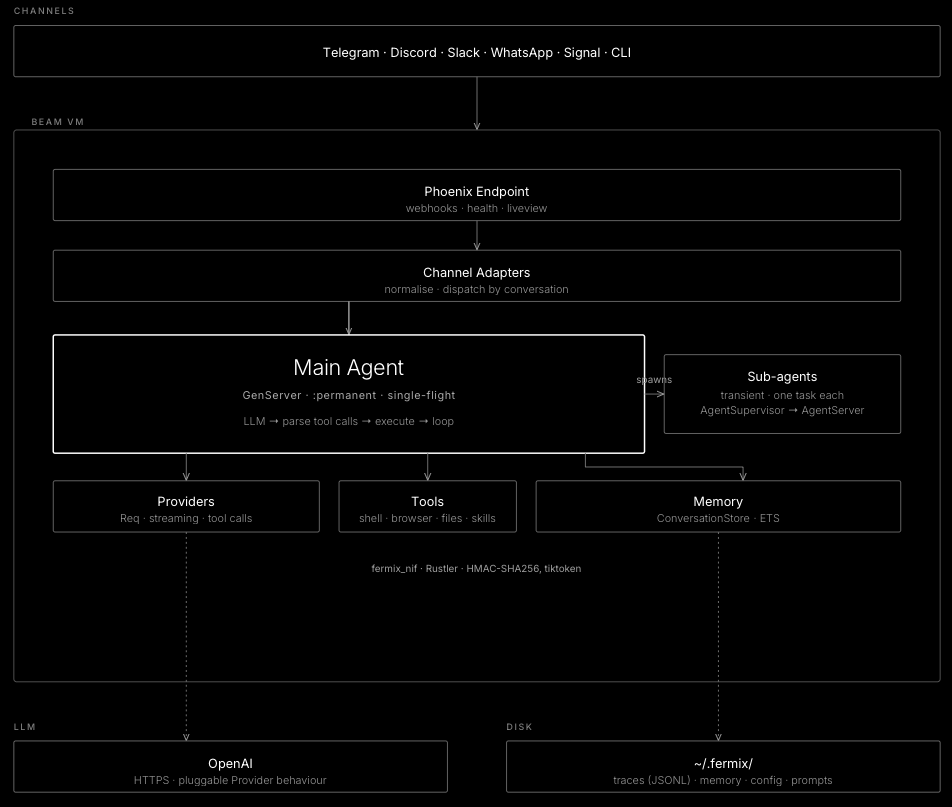
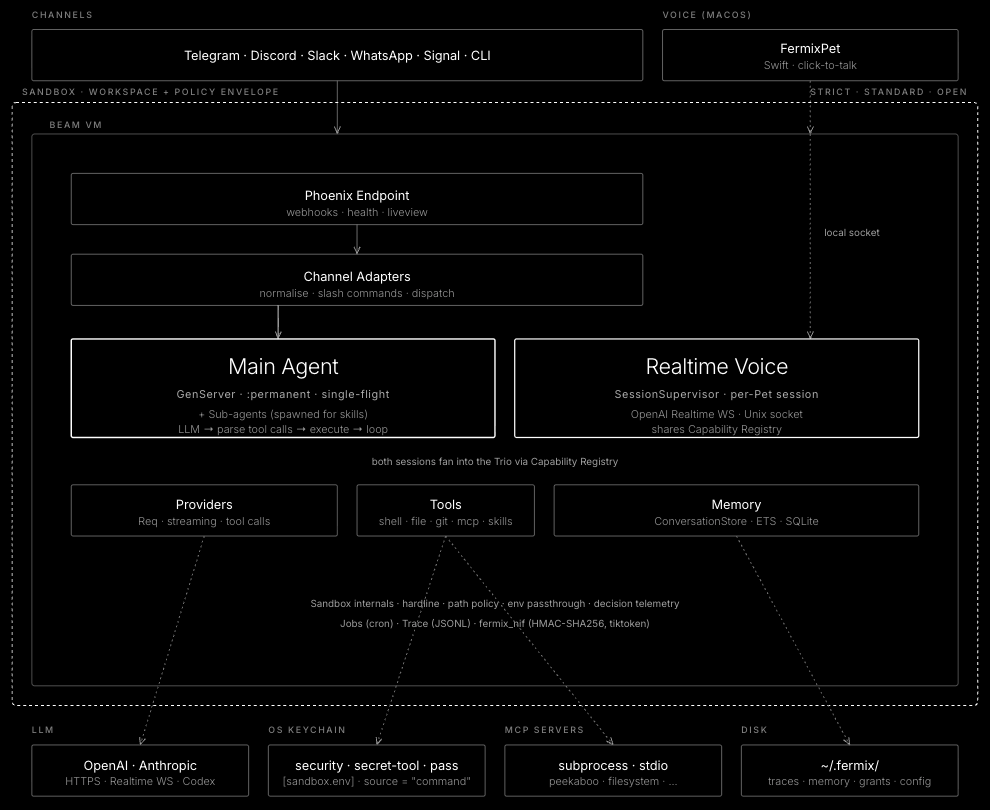
docs(architecture): refresh diagram for M5 Sandbox envelope, Realtime, FermixPet
Significant restructuring of the system architecture diagram in
docs/ARCHITECTURE.html to reflect the current runtime:

- Two parallel top-input lanes: Channels (Telegram/Discord/Slack/
  WhatsApp/Signal/CLI on the left) and FermixPet voice (right).
  FermixPet's local Unix socket bypasses Phoenix entirely, drawn
  as a dashed line down the right side of the VM that lands on
  Realtime's top edge instead of going through Phoenix and
  Channel Adapters.
- Phoenix Endpoint and Channel Adapters shrunk to left-lane only
  (x=120-700) since FermixPet doesn't go through them.
- Main Agent and Realtime Voice are siblings at the same y-level
  (y=348-448), both white-stroked hero boxes. Sub-agents folded
  into Main Agent's body text as a sub-line — they're transient
  spawned workers, not a separate session like Realtime.
- Sandbox rendered as the outermost dashed envelope (x=60-1040,
  y=108-720) wrapping the entire BEAM VM. Labelled "workspace +
  policy envelope" with the three modes (strict/standard/open)
  in the top-right corner. Replaces the prior tight dashed wrap
  around Tools, which implied middleware-pipeline thinking.
- Outbound row reorganised to four blocks (LLM · OS Keychain ·
  MCP Servers · Disk) with connector slants that don't cross.
- New centerline label between Sessions and Trio: "both sessions
  fan into the Trio via Capability Registry."
- Sandbox internals captured in a quiet strip line: "hardline ·
[…]

diff --git a/docs/ARCHITECTURE.html b/docs/ARCHITECTURE.html
@@ -113,14 +113,40 @@
       </defs>
 
       <!-- ============================================================
-           INPUT — Channels only at the top (full width above the VM)
+           INPUTS — two parallel ingress lanes above the VM.
+           Channels (text) come in via Phoenix HTTP webhooks.
+           FermixPet (voice) connects to a local Unix-domain socket and
+           bypasses Phoenix entirely.
            ============================================================ -->
       <text x="80" y="22" class="label-eyebrow">Channels</text>
-      <rect x="80" y="34" width="940" height="52" rx="2"
+      <rect x="80" y="34" width="620" height="52" rx="2"
             fill="none" stroke="#6e6e6e" stroke-width="1"/>
-      <text x="550" y="65" class="label-row" text-anchor="middle">Telegram   ·   Discord   ·   Slack   ·   WhatsApp   ·   Signal   ·   CLI</text>
+      <text x="390" y="65" class="label-row" text-anchor="middle">Telegram  ·  Discord  ·  Slack  ·  WhatsApp  ·  Signal  ·  CLI</text>
 
-      <line x1="550" y1="86" x2="550" y2="140" stroke="#7a7a7a" stroke-width="1" marker-end="url(#tip)"/>
+      <text x="720" y="22" class="label-eyebrow">Voice (macOS)</text>
+      <rect x="720" y="34" width="300" height="52" rx="2"
+            fill="none" stroke="#6e6e6e" stroke-width="1"/>
+      <text x="870" y="58" class="label-row" text-anchor="middle">FermixPet</text>
+      <text x="870" y="74" class="label-sub" text-anchor="middle">Swift  ·  click-to-talk</text>
+
+      <line x1="390" y1="86" x2="390" y2="140" stroke="#7a7a7a" stroke-width="1" marker-end="url(#tip)"/>
+      <line x1="870" y1="86" x2="870" y2="140" stroke="#7a7a7a" stroke-width="1" stroke-dasharray="2,3" marker-end="url(#tip)"/>
+
+      <!-- ============================================================
+           SANDBOX — operator's policy envelope wrapping the BEAM VM.
+           Modes (strict/standard/open), allowed_roots, blocked_roots,
+           env passthrough, and command profile govern what the agent
+           can DO on this machine. Drawn outside the BEAM frame to
+           reflect that Sandbox config is the framing context for the
+           whole local runtime — not OS isolation, that lands in M10.
+           Runtime enforcement (Sandbox.enforce/3) fires inside tool
+           execute paths; LLM HTTPS calls and Memory writes intentionally
+           bypass it (§3.4 control-surface carve-out).
+           ============================================================ -->
+      <rect x="60" y="108" width="980" height="612" rx="4"
+            fill="none" stroke="#ffffff" stroke-width="1" stroke-dasharray="3,3"/>
+      <text x="70" y="100" class="label-eyebrow">Sandbox  ·  workspace + policy envelope</text>
+      <text x="1030" y="100" class="label-eyebrow" text-anchor="end">strict  ·  standard  ·  open</text>
 
       <!-- ============================================================
            BEAM VM — frame + tiny corner label
@@ -129,88 +155,113 @@
             fill="none" stroke="#5a5a5a" stroke-width="1"/>
       <text x="98" y="134" class="label-eyebrow">BEAM VM</text>
 
-      <!-- Layer 1 — Phoenix Endpoint -->
-      <rect x="120" y="180" width="860" height="52" rx="2"
+      <!-- Phoenix Endpoint — left lane only (FermixPet's local socket bypasses it). -->
+      <rect x="120" y="180" width="580" height="52" rx="2"
             fill="none" stroke="#6e6e6e" stroke-width="1"/>
-      <text x="550" y="207" class="label-row" text-anchor="middle">Phoenix Endpoint</text>
-      <text x="550" y="223" class="label-sub" text-anchor="middle">webhooks  ·  health  ·  liveview</text>
+      <text x="410" y="207" class="label-row" text-anchor="middle">Phoenix Endpoint</text>
+      <text x="410" y="223" class="label-sub" text-anchor="middle">webhooks  ·  health  ·  liveview</text>
+      <line x1="410" y1="232" x2="410" y2="262" stroke="#7a7a7a" stroke-width="1" marker-end="url(#tip)"/>
 
-      <line x1="550" y1="232" x2="550" y2="262" stroke="#7a7a7a" stroke-width="1" marker-end="url(#tip)"/>
-
-      <!-- Layer 2 — Channel Adapters -->
-      <rect x="120" y="262" width="860" height="52" rx="2"
+      <!-- Channel Adapters — left lane. Parses slash commands before MainAgent sees the message. -->
+      <rect x="120" y="262" width="580" height="52" rx="2"
             fill="none" stroke="#6e6e6e" stroke-width="1"/>
-      <text x="550" y="289" class="label-row" text-anchor="middle">Channel Adapters</text>
-      <text x="550" y="305" class="label-sub" text-anchor="middle">normalise  ·  dispatch by conversation</text>
+      <text x="410" y="289" class="label-row" text-anchor="middle">Channel Adapters</text>
+      <text x="410" y="305" class="label-sub" text-anchor="middle">normalise  ·  slash commands  ·  dispatch</text>
+      <line x1="330" y1="314" x2="330" y2="348" stroke="#c0c0c0" stroke-width="1.25" marker-end="url(#tip)"/>
 
-      <line x1="420" y1="314" x2="420" y2="348" stroke="#c0c0c0" stroke-width="1.25" marker-end="url(#tip)"/>
+      <!-- FermixPet's local-socket lane: dashed line drops down the right side
+           of the VM frame, lands on Realtime's top edge. Bypasses Phoenix +
+           Channel Adapters. -->
+      <line x1="870" y1="140" x2="870" y2="348" stroke="#7a7a7a" stroke-width="1" stroke-dasharray="2,3" marker-end="url(#tip)"/>
+      <text x="884" y="244" class="label-quiet">local socket</text>
 
-      <!-- HERO — Main Agent (left, larger) + Sub-agents callout (right, smaller) -->
-      <rect x="120" y="348" width="600" height="120" rx="2"
+      <!-- SESSIONS — siblings at the same architectural level. Both manage a
+           conversational session, both share the Capability Registry, both
+           call providers. Main Agent serves text channels; Realtime serves voice. -->
+      <rect x="120" y="348" width="430" height="100" rx="2"
             fill="none" stroke="#ffffff" stroke-width="1.5"/>
-      <text x="420" y="388" class="label-hero" text-anchor="middle">Main Agent</text>
-      <text x="420" y="413" class="label-hero-sub" text-anchor="middle">GenServer  ·  :permanent  ·  single-flight</text>
-      <text x="420" y="439" class="label-sub" text-anchor="middle">LLM  →  parse tool calls  →  execute  →  loop</text>
+      <text x="335" y="384" class="label-hero" text-anchor="middle">Main Agent</text>
+      <text x="335" y="408" class="label-hero-sub" text-anchor="middle">GenServer  ·  :permanent  ·  single-flight</text>
+      <text x="335" y="428" class="label-sub" text-anchor="middle">+ Sub-agents (spawned for skills)</text>
+      <text x="335" y="443" class="label-sub" text-anchor="middle">LLM  →  parse tool calls  →  execute  →  loop</text>
 
-      <!-- Spawn arrow → Sub-agents (horizontal sibling) -->
-      <line x1="720" y1="408" x2="740" y2="408" stroke="#7a7a7a" stroke-width="1" marker-end="url(#tip)"/>
-      <text x="730" y="396" class="label-quiet" text-anchor="middle">spawns</text>
+      <rect x="570" y="348" width="410" height="100" rx="2"
+            fill="none" stroke="#ffffff" stroke-width="1.25"/>
+      <text x="775" y="384" class="label-hero" text-anchor="middle">Realtime Voice</text>
+      <text x="775" y="408" class="label-hero-sub" text-anchor="middle">SessionSupervisor  ·  per-Pet session</text>
+      <text x="775" y="428" class="label-sub" text-anchor="middle">OpenAI Realtime WS  ·  Unix socket</text>
+      <text x="775" y="443" class="label-sub" text-anchor="middle">shares Capability Registry</text>
 
-      <!-- Sub-agents — transient workers (sibling to Main Agent) -->
-      <rect x="740" y="368" width="240" height="80" rx="2"
-            fill="none" stroke="#6e6e6e" stroke-width="1"/>
-      <text x="860" y="394" class="label-row" text-anchor="middle">Sub-agents</text>
-      <text x="860" y="412" class="label-sub" text-anchor="middle">transient  ·  one task each</text>
-      <text x="860" y="428" class="label-sub" text-anchor="middle">AgentSupervisor → AgentServer</text>
+      <!-- Both sessions fan into the Trio below via the Capability Registry.
+           Visualized by adjacency rather than explicit per-cell arrows —
+           any session can call any Trio resource. -->
+      <text x="550" y="476" class="label-quiet" text-anchor="middle">both sessions fan into the Trio via Capability Registry</text>
 
-      <!-- Fan connectors from Main Agent → Trio.
-           Memory's centre falls just outside Main Agent's right edge,
-           so its connector takes a short L-bend rather than a diagonal. -->
-      <line x1="255" y1="468" x2="255" y2="496" stroke="#7a7a7a" stroke-width="1" marker-end="url(#tip)"/>
-      <line x1="500" y1="468" x2="500" y2="496" stroke="#7a7a7a" stroke-width="1" marker-end="url(#tip)"/>
-      <polyline points="660,468 660,482 820,482 820,496"
-                fill="none" stroke="#7a7a7a" stroke-width="1" marker-end="url(#tip)"/>
-
-      <!-- Trio — Providers · Tools · Memory (shared by Main Agent and Sub-agents) -->
+      <!-- TRIO — Providers · Tools · Memory.
+           Sandbox enclosure (dashed) wraps Tools only: that's where the
+           policy gate actually fires. Providers (HTTPS from BEAM) and Memory
+           (in-VM, control-surface writes) are not sandbox-mediated. -->
       <rect x="120" y="496" width="270" height="52" rx="2"
             fill="none" stroke="#6e6e6e" stroke-width="1"/>
       <text x="255" y="521" class="label-row" text-anchor="middle">Providers</text>
       <text x="255" y="537" class="label-sub" text-anchor="middle">Req  ·  streaming  ·  tool calls</text>
 
+      <!-- Tools — single Trio cell. Sandbox.enforce/3 runs inside each
+           tool's execute path; the outer envelope captures the policy
+           framing, the bottom quiet strip names the runtime internals. -->
       <rect x="410" y="496" width="180" height="52" rx="2"
             fill="none" stroke="#6e6e6e" stroke-width="1"/>
       <text x="500" y="521" class="label-row" text-anchor="middle">Tools</text>
-      <text x="500" y="537" class="label-sub" text-anchor="middle">shell · browser · files · skills</text>
+      <text x="500" y="537" class="label-sub" text-anchor="middle">shell · file · git · mcp · skills</text>
 
       <rect x="610" y="496" width="370" height="52" rx="2"
             fill="none" stroke="#6e6e6e" stroke-width="1"/>
       <text x="795" y="521" class="label-row" text-anchor="middle">Memory</text>
-      <text x="795" y="537" class="label-sub" text-anchor="middle">ConversationStore  ·  ETS</text>
+      <text x="795" y="537" class="label-sub" text-anchor="middle">ConversationStore  ·  ETS  ·  SQLite</text>
 
-      <!-- Quiet bottom strip — Rustler NIF -->
-      <text x="550" y="588" class="label-quiet" text-anchor="middle">fermix_nif  ·  Rustler  ·  HMAC-SHA256, tiktoken</text>
+      <!-- Quiet bottom strip — primitives that don't deserve their own boxes -->
+      <text x="550" y="620" class="label-quiet" text-anchor="middle">Sandbox internals  ·  hardline  ·  path policy  ·  env passthrough  ·  decision telemetry</text>
+      <text x="550" y="640" class="label-quiet" text-anchor="middle">Jobs (cron)  ·  Trace (JSONL)  ·  fermix_nif (HMAC-SHA256, tiktoken)</text>
 
       <!-- ============================================================
-           OUTBOUND — external dependencies the VM calls out to.
-           LLM (the brain) and Disk (persistence), bottom row.
+           OUTBOUND — destinations the VM calls out to.
+           These sit OUTSIDE the Sandbox envelope because they are
+           remote services (LLM APIs) or local OS resources whose
+           access is governed by Sandbox config but whose behaviour
+           is not.
            ============================================================ -->
 
-      <!-- Providers → LLM (dotted, exits VM bottom) -->
-      <line x1="255" y1="548" x2="255" y2="760" stroke="#7a7a7a" stroke-width="1" stroke-dasharray="2,3" marker-end="url(#tip)"/>
-      <!-- Memory → Disk (dotted, exits VM bottom) -->
-      <line x1="795" y1="548" x2="795" y2="760" stroke="#7a7a7a" stroke-width="1" stroke-dasharray="2,3" marker-end="url(#tip)"/>
+      <!-- Outbound connectors, reordered to flow without crossings:
+           Providers→LLM and Tools→Keychain slant down-left;
+           Tools→MCP and Memory→Disk slant down-right. -->
+      <line x1="255" y1="548" x2="190" y2="760" stroke="#7a7a7a" stroke-width="1" stroke-dasharray="2,3" marker-end="url(#tip)"/>
+      <line x1="500" y1="548" x2="430" y2="760" stroke="#7a7a7a" stroke-width="1" stroke-dasharray="2,3" marker-end="url(#tip)"/>
+      <line x1="500" y1="548" x2="670" y2="760" stroke="#7a7a7a" stroke-width="1" stroke-dasharray="2,3" marker-end="url(#tip)"/>
+      <line x1="795" y1="548" x2="910" y2="760" stroke="#7a7a7a" stroke-width="1" stroke-dasharray="2,3" marker-end="url(#tip)"/>
 
       <text x="80" y="748" class="label-eyebrow">LLM</text>
-      <rect x="80" y="760" width="440" height="52" rx="2"
+      <rect x="80" y="760" width="220" height="52" rx="2"
             fill="none" stroke="#6e6e6e" stroke-width="1"/>
-      <text x="300" y="787" class="label-row" text-anchor="middle">OpenAI</text>
-      <text x="300" y="803" class="label-sub" text-anchor="middle">HTTPS  ·  pluggable Provider behaviour</text>
+      <text x="190" y="785" class="label-row" text-anchor="middle">OpenAI  ·  Anthropic</text>
+      <text x="190" y="801" class="label-sub" text-anchor="middle">HTTPS  ·  Realtime WS  ·  Codex</text>
 
-      <text x="580" y="748" class="label-eyebrow">Disk</text>
-      <rect x="580" y="760" width="440" height="52" rx="2"
+      <text x="320" y="748" class="label-eyebrow">OS Keychain</text>
+      <rect x="320" y="760" width="220" height="52" rx="2"
             fill="none" stroke="#6e6e6e" stroke-width="1"/>
-      <text x="800" y="787" class="label-row" text-anchor="middle">~/.fermix/</text>
-      <text x="800" y="803" class="label-sub" text-anchor="middle">traces (JSONL)  ·  memory  ·  config  ·  prompts</text>
+      <text x="430" y="785" class="label-row" text-anchor="middle">security  ·  secret-tool  ·  pass</text>
+      <text x="430" y="801" class="label-sub" text-anchor="middle">[sandbox.env]  ·  source = "command"</text>
+
+      <text x="560" y="748" class="label-eyebrow">MCP Servers</text>
+      <rect x="560" y="760" width="220" height="52" rx="2"
+            fill="none" stroke="#6e6e6e" stroke-width="1"/>
+      <text x="670" y="785" class="label-row" text-anchor="middle">subprocess  ·  stdio</text>
+      <text x="670" y="801" class="label-sub" text-anchor="middle">peekaboo  ·  filesystem  ·  ...</text>
+
+      <text x="800" y="748" class="label-eyebrow">Disk</text>
+      <rect x="800" y="760" width="220" height="52" rx="2"
+            fill="none" stroke="#6e6e6e" stroke-width="1"/>
+      <text x="910" y="785" class="label-row" text-anchor="middle">~/.fermix/</text>
+      <text x="910" y="801" class="label-sub" text-anchor="middle">traces · memory · grants · config</text>
 
     </svg>
 
